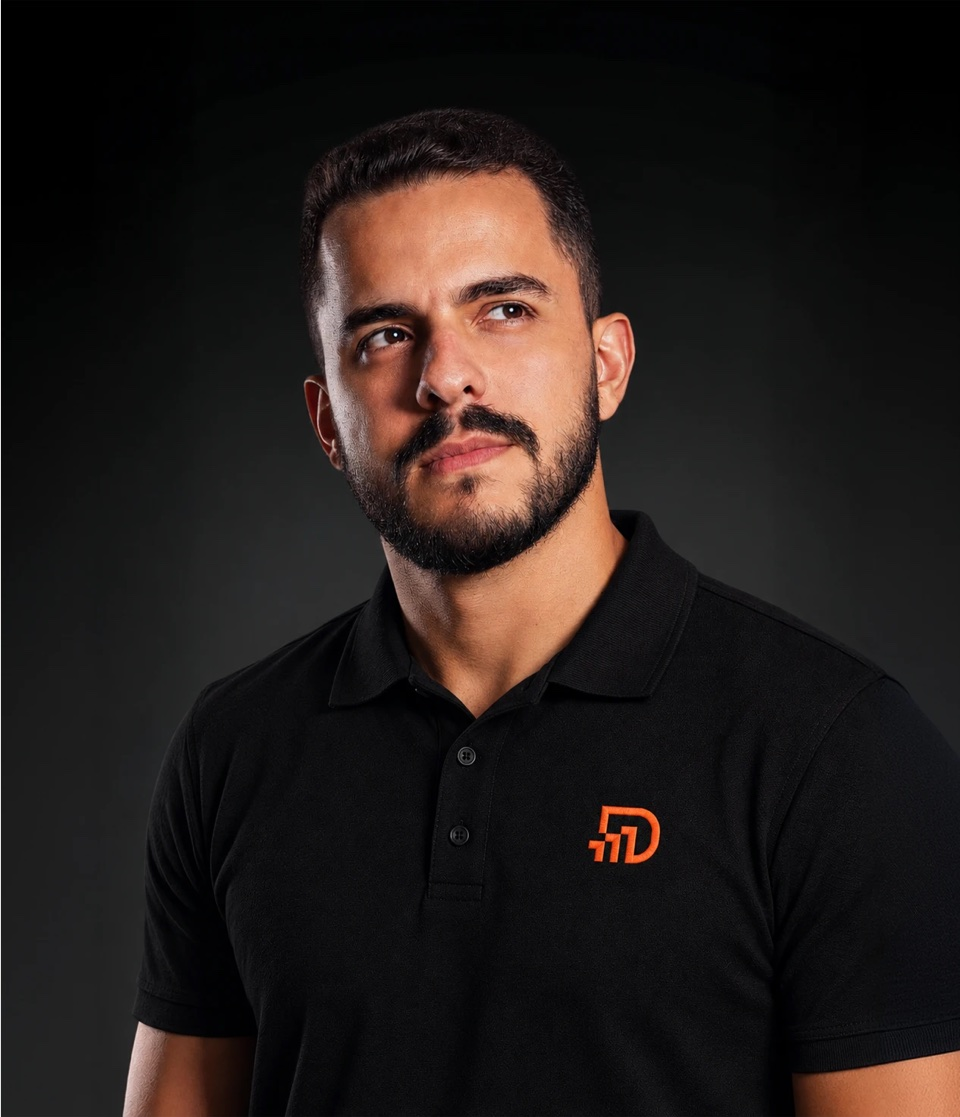
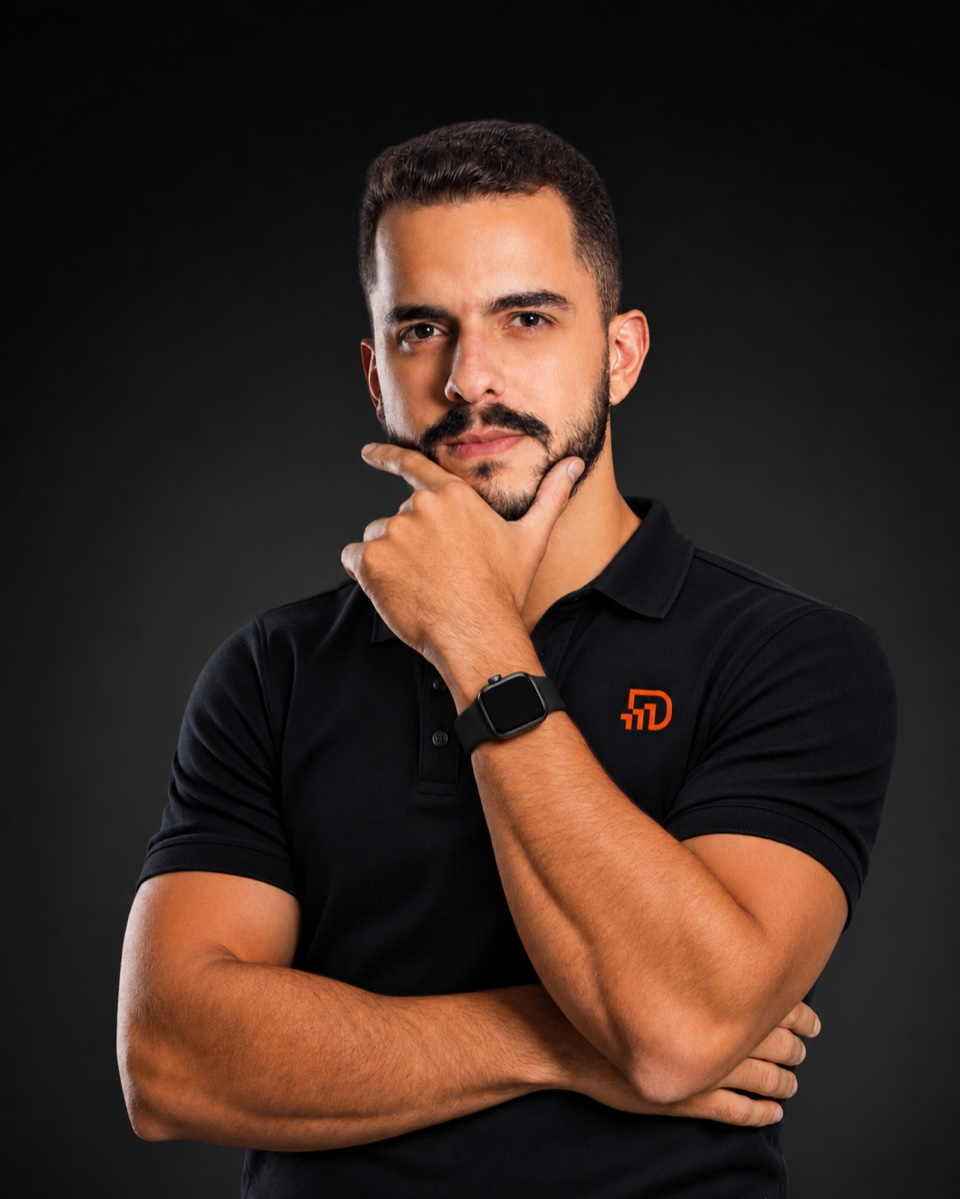
Troca a foto do retrato

diff --git a/index.html b/index.html
@@ -27,7 +27,7 @@
       <div class="retrato surge" style="--d: 0s">
         <span class="monograma" aria-hidden="true">EM</span>
         <!-- Para trocar a foto, substitua o arquivo foto.jpg -->
-        <img src="foto.jpg" alt="Retrato de Elison Melo" width="960" height="1117" onerror="this.remove()">
+        <img src="foto.jpg" alt="Retrato de Elison Melo" width="960" height="1200" onerror="this.remove()">
       </div>
 
       <p class="assinatura surge" style="--d: .12s">Elison Melo <span aria-hidden="true">·</span> Desenvor Digital</p>
